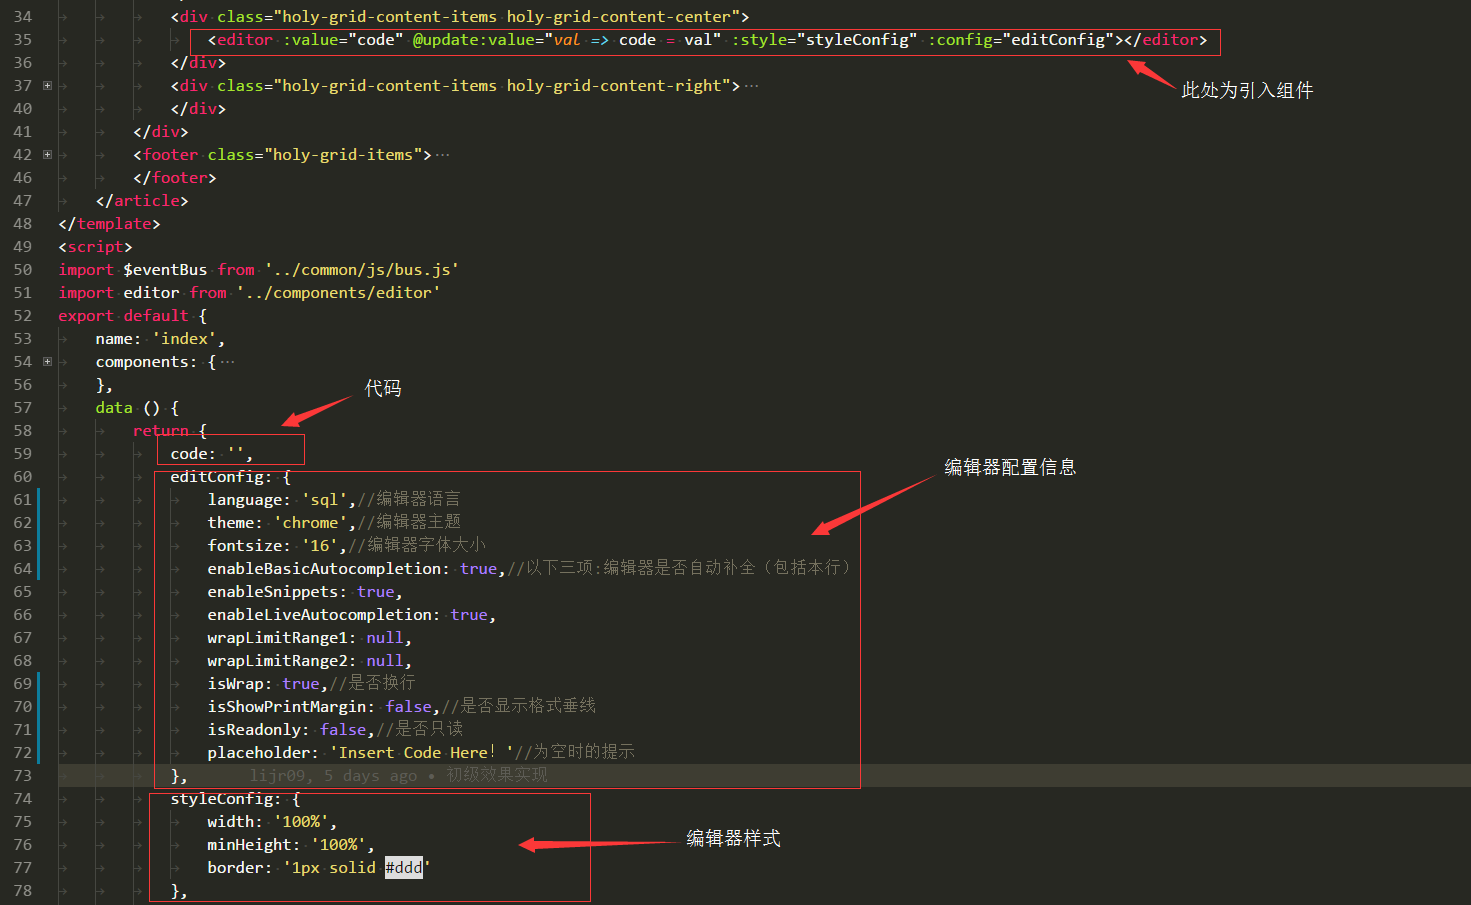
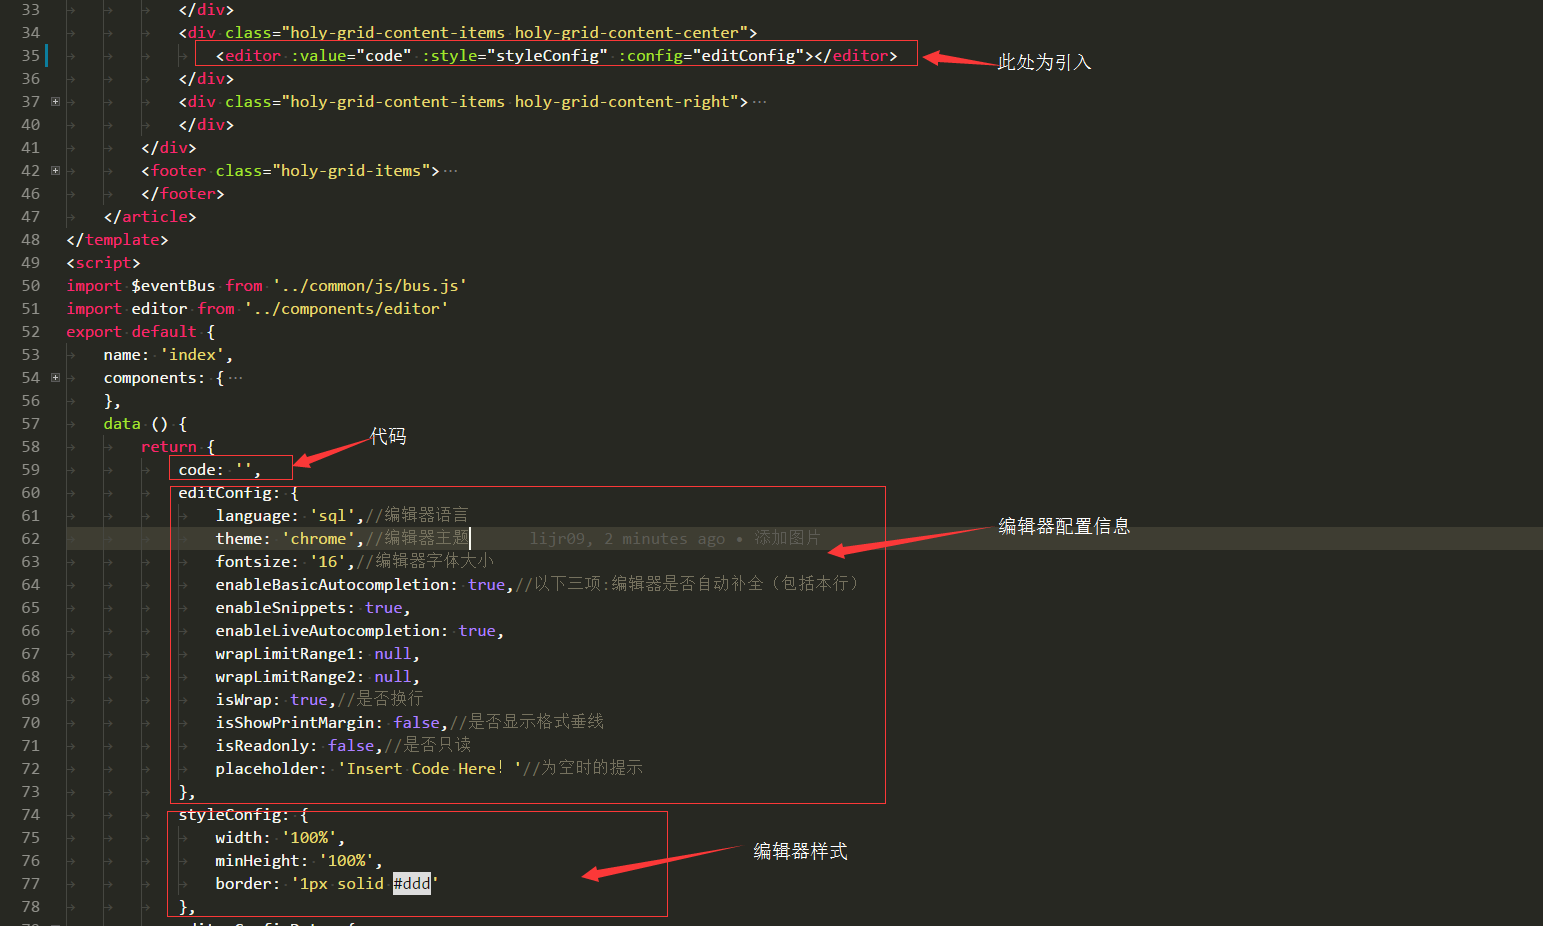
更新图片

diff --git a/src/page/index.vue b/src/page/index.vue
@@ -32,7 +32,7 @@
 				</div>
 			</div>
 			<div class="holy-grid-content-items holy-grid-content-center">
-				<editor :value="code" @update:value="val => code = val" :style="styleConfig" :config="editConfig"></editor>
+				<editor :value="code" :style="styleConfig" :config="editConfig"></editor>
 			</div>
 			<div class="holy-grid-content-items holy-grid-content-right">
 				<p><strong>编辑器配置信息:</strong></p>
